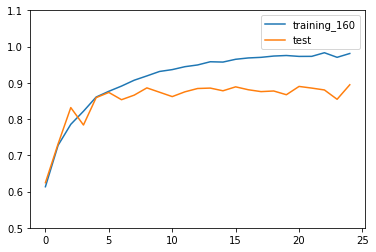
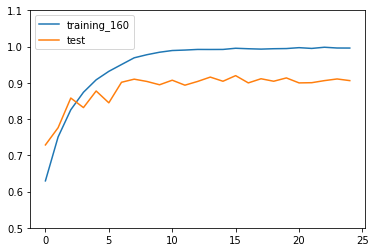
0,1 91% adamax

diff --git a/CNN_net.py b/CNN_net.py
@@ -46,12 +46,12 @@ model.add(layers.Conv2D(128, (2, 2), activation="relu"))
 model.add(layers.MaxPool2D((2, 2)))
 model.add(layers.Conv2D(128, (2, 2), activation="relu"))
 model.add(layers.MaxPool2D((2, 2)))
-model.add(layers.Conv2D(256, (2, 2), activation="relu"))
+model.add(layers.Conv2D(512, (2, 2), activation="relu"))
 model.add(layers.MaxPool2D((2, 2)))
-model.add(layers.Conv2D(256, (2, 2), activation="relu"))
+model.add(layers.Conv2D(512, (2, 2), activation="relu"))
 model.add(layers.MaxPool2D((2, 2)))
-model.add(layers.Conv2D(256, (2, 2), activation="relu"))
-model.add(layers.MaxPool2D((2, 2)))
+model.add(layers.Conv2D(512, (2, 2), activation="relu"))
+model.add(layers.MaxPool2D((3, 3)))
 
 model.add(layers.Flatten())
 
@@ -63,7 +63,7 @@ model.add(layers.Dense(2, activation="softmax"))
 
 model.summary()
 
-model.compile(optimizer="adam",#adamax,
+model.compile(optimizer="adamax",#adamax,
               loss="SparseCategoricalCrossentropy",
               metrics=["accuracy"])
 
@@ -71,7 +71,7 @@ history = model.fit(train_images,
                     train_labels,
                     validation_split = 0.1,
                     epochs = 25,
-                    batch_size= 30)
+                    batch_size= 20)
 
 history.history.keys()
 
